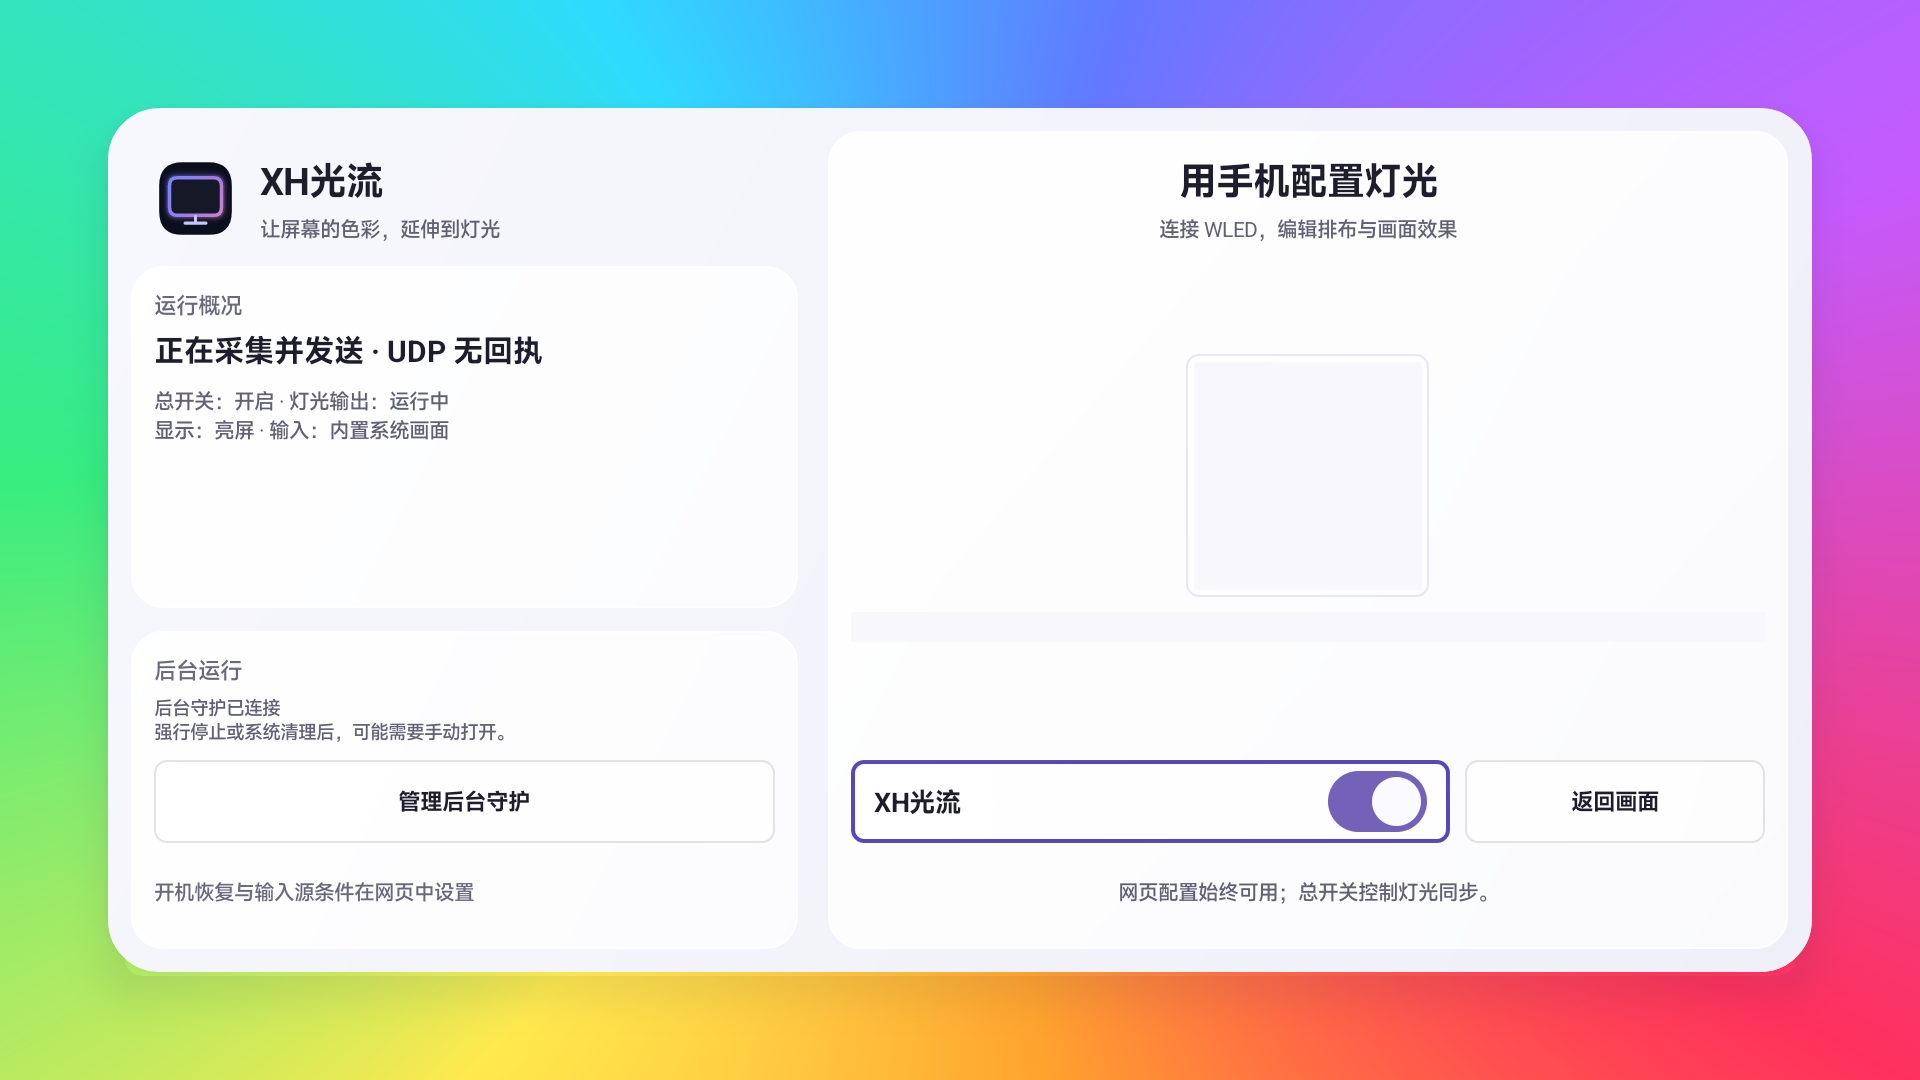
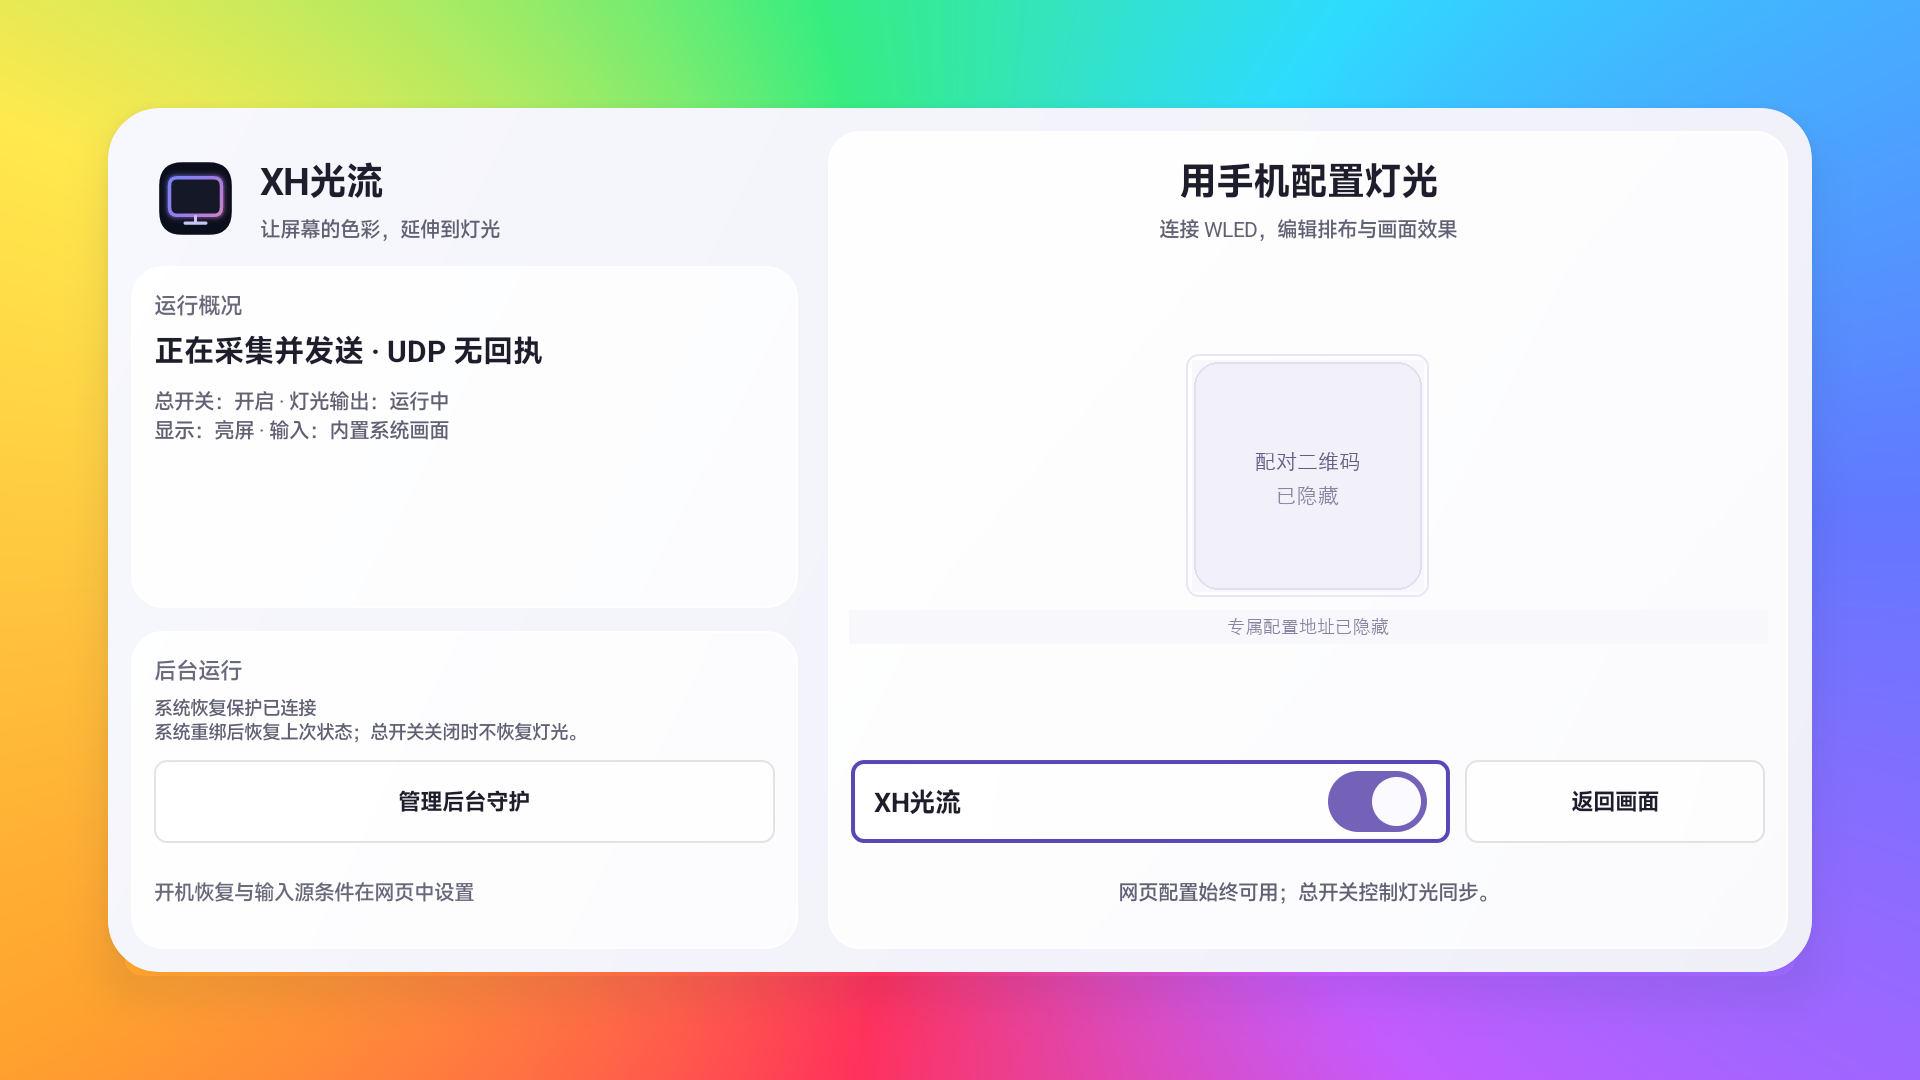
Prepare 0.5.4 prerelease with current TV and WebUI screenshots

Changed region(s): [[0.0, 0.0, 1.0, 1.0], [0.6562, 0.4278, 0.7188, 0.4583], [0.6562, 0.55, 0.6875, 0.5806]]

diff --git a/docs/VALIDATION.md b/docs/VALIDATION.md
@@ -1,5 +1,11 @@
 # 验证记录
 
+## 0.5.4：公开预发布准备
+
+本次预发布汇总 0.5.1–0.5.4 的系统绑定恢复、灯控电源恢复、连接重试、黑位保护和零散黑点过滤；发布说明见 [RELEASE-0.5.4.md](RELEASE-0.5.4.md)。电视截图采用 0.5.4 真机界面并遮蔽二维码、配对信息与局域网地址；WebUI 截图采用同版本本地演示，分别展示排布画布和灯光颜色设置。截图用于展示当前界面，不作为新增设备或场景的验收。
+
+发布前已有五组网页测试、21 套主机 Java 合约、相同签名静默覆盖安装及完整配置/总开关/USB-C 前台保持的验证。APK 签名、打包资源和已安装包核对结果见下方记录；远端发布与下载校验应在实际上传后另行确认。
+
 ## 0.5.4：按黑区占比过滤零散黑点（本地真机测试）
 
 2026-10-30 在黑位保护前增加可调占比过滤，默认开启、阈值 15%，网页“画面与颜色 → 亮度与柔化”可关闭或调整 1%–50%。按已分配灯珠的原始近黑程度加权计算占比，不统计未分配灯珠；低占比时使用物理走线附近的原始有效颜色，接近占比上限及暗部边界时平滑减弱补色。C 字形不跨缺口，闭合灯带可首尾寻找邻色；全黑或没有有效邻色时不补色。
@@ -9,7 +15,7 @@
 - 真实后台依次核验关闭过滤、40% 阈值、1% 阈值，并核对保存/应用指纹。40% 测试时实际占比约 8.2%，11 颗灯获得补色；1% 时约 8.4%，补色灯数为 0。结束恢复原完整 JSON，默认 15% 下约 8.3%、11 颗补色。运行期间画面变化，因此这些比例来自各自时刻，不作为同一帧的对照。
 - APK v2/v3 签名通过，安装包与交付测试包 SHA256 一致，六份网页资源与源码相同。浏览器检查新增控件与现有开关/滑条对齐，无横向溢出。
 
-补色指标确认算法已在实际采样链生效，不代替使用者对电影闪烁和灯带观感的验收；本次未重新验收全部输入、HDR/DRM、待机恢复或长期运行。0.5.4 当前为本地安装测试版。
+补色指标确认算法已在实际采样链生效，不代替使用者对电影闪烁和灯带观感的验收；本次未重新验收全部输入、HDR/DRM、待机恢复或长期运行。本节记录本地安装测试结果，预发布不扩大上述验收范围。
 
 ## 0.5.3：黑位输出保护（本地测试）
 
@@ -19,7 +25,7 @@
 - Redmi G Pro 32U 2026 / Android 14 上静默覆盖安装非调试版 versionCode 13，完整保存配置、总开关、USB-C 输入及原外部信号前台均相等；系统守护已连接，新鲜取色和发送恢复。没有为测试强制切换画面。
 - 已安装 APK 与本地测试包 SHA256 一致，v2/v3 签名通过，六份网页运行资源与源码逐字节一致。
 
-上述黑位数值来自完整输出链的合成输入验证。未切换用户正在使用的真实画面，实际电影暗部及逐灯观感仍需使用者确认；本次未重新验收休眠恢复、所有输入、HDR/DRM 或长期运行。0.5.3 当前为本地安装测试版。
+上述黑位数值来自完整输出链的合成输入验证。未切换用户正在使用的真实画面，实际电影暗部及逐灯观感仍需使用者确认；本次未重新验收休眠恢复、所有输入、HDR/DRM 或长期运行。0.5.3 为本次预发布前的本地安装测试版本。
 
 ## 0.5.2：输入条件、电源恢复与静默唤醒（本地真机测试）
 

diff --git a/docs/RELEASE-0.5.4.md b/docs/RELEASE-0.5.4.md
@@ -1,0 +1,23 @@
+# XH光流 0.5.4 测试版
+
+本版汇总 0.5.1–0.5.4 的后台恢复与灯光算法改进，适配目标为 **Redmi G Pro 32U 2026 / Android 14**，Android versionCode 为 14。
+
+## 变化
+
+- **静默恢复后台**：可选系统恢复保护，在系统重新绑定后恢复网页与此前开启的同步，保持当前前台画面和输入源。总开关关闭时只恢复网页；关闭开机运行后不自动重建工作会话。
+- **恢复灯控电源**：保存因休眠或接口条件关灯后的恢复记录，进程重建后仍按总开关、亮屏和接口条件决定是否恢复。WLED 临时连接或电源请求失败后按退避间隔重试。
+- **黑位保护**：纯黑画面输出为 0，未补色近黑区域输出为 0–4；颜色校正与柔化不会重新抬亮这些黑区。
+- **零散黑点过滤**：默认开启，低于占比阈值时使用走线邻近的有效颜色，减少灯光反复明灭。默认阈值 15%，网页可调 1%–50%；接近阈值时平滑退出补色，大面积黑场保持黑位。C 字形不跨开口补色。
+- **网页配置**：保留有效修改自动保存、已开启同步时安全应用和指纹回读；新增过滤开关与占比滑条，更新电视端及 WebUI 截图。
+
+## 验证
+
+五组网页测试、21 套主机 Java 合约通过，包括新增的 336 项占比过滤检查和 4,064 项黑位检查。真机覆盖安装保留完整配置、总开关、USB-C 输入和前台画面；过滤开关及高低阈值均经保存/应用指纹与实际补色指标核验。此前 0.5.2 已在当前 USB-C 场景验证休眠关灯、进程重建和唤醒恢复。
+
+补色与 UDP 发送指标不代替灯带观感验收。尚未完成多日稳定性、全部输入端口、断电开机、其他机型/固件和 HDR/DRM 的完整验证；后台恢复仍受 Android 与厂商策略影响。
+
+## 安装与说明
+
+下载本次 Release 的 APK，使用相同签名覆盖升级可保留配置；建议先在网页导出 JSON 备份。仍需在电视系统中授权可选的后台恢复保护，应用不会自行授予或恢复已撤销授权。
+
+[截图与使用说明](https://github.com/XHFO/XHFlow/blob/v0.5.4/README.md) · [详细验证记录](https://github.com/XHFO/XHFlow/blob/v0.5.4/docs/VALIDATION.md)
